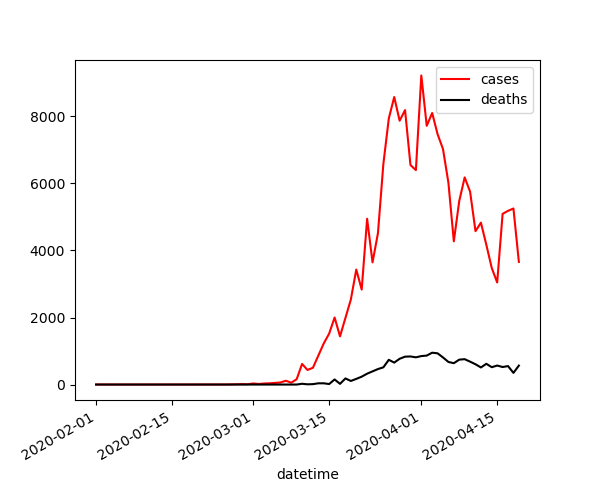
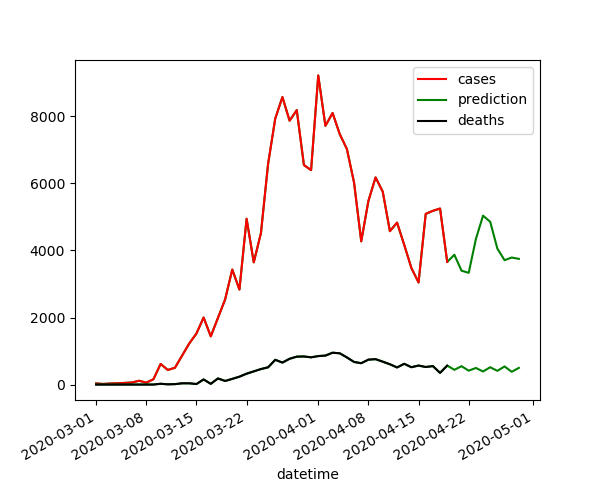
Added a prediction by AR model

diff --git a/docs/index.html b/docs/index.html
@@ -15,12 +15,12 @@
             </script>
             <div class="row">
                   <div class="column">
-                      <h2>Covid-19 cases</h2>
+                      <h2>COVID-19 daily cases</h2>
                       <p>Time evolution of COVID cases per population (%) for the top countries</p>
                       <img src="images/cases.png" alt="cases evolution">
                   </div>
                   <div class="column">
-                      <h2>Covid-19 deaths</h2>
+                      <h2>COVID-19 daily deaths</h2>
                       <p>Time evolution of deaths per population (%) for the top countries</p>
                       <img src="images/deaths.png" alt="deaths evolution">
                   </div>
@@ -29,13 +29,13 @@
             <div class="row">
             
                 <div class="column">
-                  <h2>Covid-19 evolution per CCAA Spain</h2>
+                  <h2>COVID-19 daily evolution per CCAA Spain</h2>
                   <p>Time evolution of COVID cases per CCAA population (%) for the top CCAA in Spain. Galicia is added to show for comparison, despite the fact that is not one of the most affected CCAA</p>
                   <img src="images/ccaa.png" alt="cases evolution ccaa">
                   </div>
                   
                   <div class="column">
-                    <h2>Spanish evolution</h2>
+                    <h2>Spanish daily evolution and prediction for next 10 days</h2>
                     <p>Number of cases and deaths evolution in Spain</p>
                     <img src="images/spain.png" alt="spanish evolution">
                   </div>
@@ -43,7 +43,7 @@
             
             <div class="row">
                   <div class="column">
-                  <h2>Percentage of deaths by cases</h2>
+                  <h2>Percentage of deaths per cases</h2>
         
         <table>
           <tr>
@@ -51,7 +51,7 @@
             <th>Percentage</th>
           </tr>
           <tr>
-          <tr><td>Spain</td><td>0.10 %</td></tr><tr><td>Guyana</td><td>0.11 %</td></tr><tr><td>Netherlands</td><td>0.11 %</td></tr><tr><td>Malawi</td><td>0.12 %</td></tr><tr><td>Zimbabwe</td><td>0.12 %</td></tr><tr><td>Italy</td><td>0.13 %</td></tr><tr><td>United_Kingdom</td><td>0.14 %</td></tr><tr><td>Sint_Maarten</td><td>0.14 %</td></tr><tr><td>Northern_Mariana_Islands</td><td>0.14 %</td></tr><tr><td>Mauritania</td><td>0.14 %</td></tr><tr><td>Algeria</td><td>0.14 %</td></tr><tr><td>Belgium</td><td>0.15 %</td></tr><tr><td>Sudan</td><td>0.15 %</td></tr><tr><td>Bahamas</td><td>0.16 %</td></tr><tr><td>Burundi</td><td>0.17 %</td></tr><tr><td>France</td><td>0.17 %</td></tr>
+          <tr><td>Spain</td><td>10.45 %</td></tr><tr><td>Gambia</td><td>11.11 %</td></tr><tr><td>Netherlands</td><td>11.40 %</td></tr><tr><td>Malawi</td><td>11.76 %</td></tr><tr><td>Zimbabwe</td><td>12.00 %</td></tr><tr><td>Italy</td><td>13.20 %</td></tr><tr><td>United_Kingdom</td><td>13.54 %</td></tr><tr><td>Sint_Maarten</td><td>14.06 %</td></tr><tr><td>Northern_Mariana_Islands</td><td>14.29 %</td></tr><tr><td>Mauritania</td><td>14.29 %</td></tr><tr><td>Algeria</td><td>14.48 %</td></tr><tr><td>Belgium</td><td>14.67 %</td></tr><tr><td>Sudan</td><td>15.15 %</td></tr><tr><td>Bahamas</td><td>15.52 %</td></tr><tr><td>Burundi</td><td>16.67 %</td></tr><tr><td>France</td><td>17.28 %</td></tr>
 
         
         </table>

diff --git a/buildHTML.py b/buildHTML.py
@@ -21,12 +21,12 @@ def generateHTML (countries, percentage):
             </script>
             <div class="row">
                   <div class="column">
-                      <h2>Covid-19 cases</h2>
+                      <h2>COVID-19 daily cases</h2>
                       <p>Time evolution of COVID cases per population (%) for the top countries</p>
                       <img src="images/cases.png" alt="cases evolution">
                   </div>
                   <div class="column">
-                      <h2>Covid-19 deaths</h2>
+                      <h2>COVID-19 daily deaths</h2>
                       <p>Time evolution of deaths per population (%) for the top countries</p>
                       <img src="images/deaths.png" alt="deaths evolution">
                   </div>
@@ -35,13 +35,13 @@ def generateHTML (countries, percentage):
             <div class="row">
             
                 <div class="column">
-                  <h2>Covid-19 evolution per CCAA Spain</h2>
+                  <h2>COVID-19 daily evolution per CCAA Spain</h2>
                   <p>Time evolution of COVID cases per CCAA population (%) for the top CCAA in Spain. Galicia is added to show for comparison, despite the fact that is not one of the most affected CCAA</p>
                   <img src="images/ccaa.png" alt="cases evolution ccaa">
                   </div>
                   
                   <div class="column">
-                    <h2>Spanish evolution</h2>
+                    <h2>Spanish daily evolution and prediction for next 10 days</h2>
                     <p>Number of cases and deaths evolution in Spain</p>
                     <img src="images/spain.png" alt="spanish evolution">
                   </div>
@@ -49,7 +49,7 @@ def generateHTML (countries, percentage):
             
             <div class="row">
                   <div class="column">
-                  <h2>Percentage of deaths by cases</h2>
+                  <h2>Percentage of deaths per cases</h2>
         
         <table>
           <tr>

diff --git a/graphics.py b/graphics.py
@@ -2,6 +2,9 @@
 #!python
 
 import matplotlib.pyplot as plt
+from prediction import prediction_AutoRegressive
+import pandas as pd
+import datetime
 
 '''
 Format ArrayCountries: countries tu print
@@ -46,11 +49,21 @@ def check_siglas (dataset, ArrayCountries):
 
     return flag, arrayFalses
 
-def ESP_evolution(dataset, date, show=False):
+def ESP_evolution(dataset, date, predcasos, predmuertes, show=False):
     plt.figure(figsize=(6, 5))
-    dt_aux = dataset[dataset['countriesAndTerritories'] == 'Spain']
-    dt_aux['cases'][date:].plot(label='cases', color = 'red')
-    dt_aux['deaths'][date:].plot(label='deaths', color ='black')
+    dt_aux = dataset[dataset['countriesAndTerritories'] == 'Spain'][date:]
+
+    for i in range(len(predmuertes)):
+        last_date = dt_aux.iloc[[-1]].index
+        last_date = last_date + datetime.timedelta(days=1)
+
+        aux = {'cases': predcasos[i], 'deaths': predmuertes[i]}
+        dt_aux = dt_aux.append(pd.DataFrame(aux, index=last_date))
+
+    dt_aux['cases'].plot(label='_nolegend_', color='green')
+    dt_aux['cases'][:-len(predmuertes)].plot(label='cases', color = 'red')
+    dt_aux['deaths'].plot(label='prediction', color='green')
+    dt_aux['deaths'][:-len(predmuertes)].plot(label='deaths', color = 'black')
 
     plt.legend()
     if show:

diff --git a/prediction.py b/prediction.py
@@ -1,0 +1,42 @@
+#!/usr/bin/python
+#!python
+
+from statsmodels.tsa.ar_model import AR
+import pandas as pd
+
+'''
+AutoRegressive model for forecasting
+'''
+
+def prediction_AutoRegressive(pathdestino, num_predicciones):
+    dt = pd.read_csv(pathdestino)
+
+    dt['datetime'] = pd.to_datetime(dt['dateRep'], format='%d/%m/%Y')
+    dt = dt.set_index('datetime')
+
+    dt = dt.iloc[::-1]
+
+    start_date = '03/2020'
+    dt = dt[start_date:]
+    dt = dt[dt['countriesAndTerritories'] == 'Spain']
+
+    casos = list(dt['cases'].values)
+    muertes = list(dt['deaths'].values)
+
+    for i in range(num_predicciones):
+        model_casos = AR(casos)
+        model_muertes = AR(muertes)
+
+        model_fit_casos = model_casos.fit()
+        model_fit_muertes = model_muertes.fit()
+
+        yhat_casos = model_fit_casos.predict(len(casos), len(casos))
+        yhat_muertes = model_fit_muertes.predict(len(muertes), len(muertes))
+
+        casos.append(int(yhat_casos))
+        muertes.append(int(yhat_muertes))
+
+    return casos[-num_predicciones:], muertes[-num_predicciones:]
+
+
+

diff --git a/main.py b/main.py
@@ -3,6 +3,7 @@ from dataDowload import datasetPreparement, dowload_dataset, datasetCCAA
 from graphics import print_cases_evolution, print_death_evolution, ESP_evolution, CCAA_evo
 from stadistics import top_N_deaths, top_N_cases, top_perc_deaths, top_N_CCAA
 from buildHTML import generateHTML
+from prediction import prediction_AutoRegressive
 import sys
 import webbrowser
 
@@ -28,7 +29,8 @@ print_cases_evolution(dt, top_cases, start_date)
 
 countries, percentage = top_perc_deaths(dt, N*3)
 
-ESP_evolution(dt, start_date)
+predcasos, predmuertes = prediction_AutoRegressive(pathDestino, 10)
+ESP_evolution(dt, '03/2020', predcasos, predmuertes)
 
 dt_CCAA = datasetCCAA(urlDescargaCCAA, pathDestinoCCAA)
 top_ccaa = top_N_CCAA (dt_CCAA, N-2) + ['Galicia']

diff --git a/dataDowload.py b/dataDowload.py
@@ -25,8 +25,8 @@ def datasetPreparement(pathdestino, pathpoblaciones):
     dt = dt.join(dt_poblaciones.set_index('Location'), on='countriesAndTerritories')
 
     #population is in thousands of habitants
-    dt['deathsPop'] = dt['deaths'].div(dt['PopTotal'])/10
-    dt['casesPop'] = dt['cases'].div(dt['PopTotal'])/10
+    dt['deathsPop'] = dt['deaths'].div(dt['PopTotal']*10)
+    dt['casesPop'] = dt['cases'].div(dt['PopTotal']*10)
 
     return dt
 

diff --git a/stadistics.py b/stadistics.py
@@ -29,7 +29,7 @@ def top_perc_deaths(dataset, N):
     total = []
     for i in categorias:
         dt_aux = dataset[dataset['countriesAndTerritories'] == i]
-        total.append([i, sum(dt_aux['deaths'])/sum(dt_aux['cases'])])
+        total.append([i, sum(dt_aux['deaths'])*100/sum(dt_aux['cases'])])
 
     casos = [row[1] for row in total]
     paises = [row[0] for row in total]
